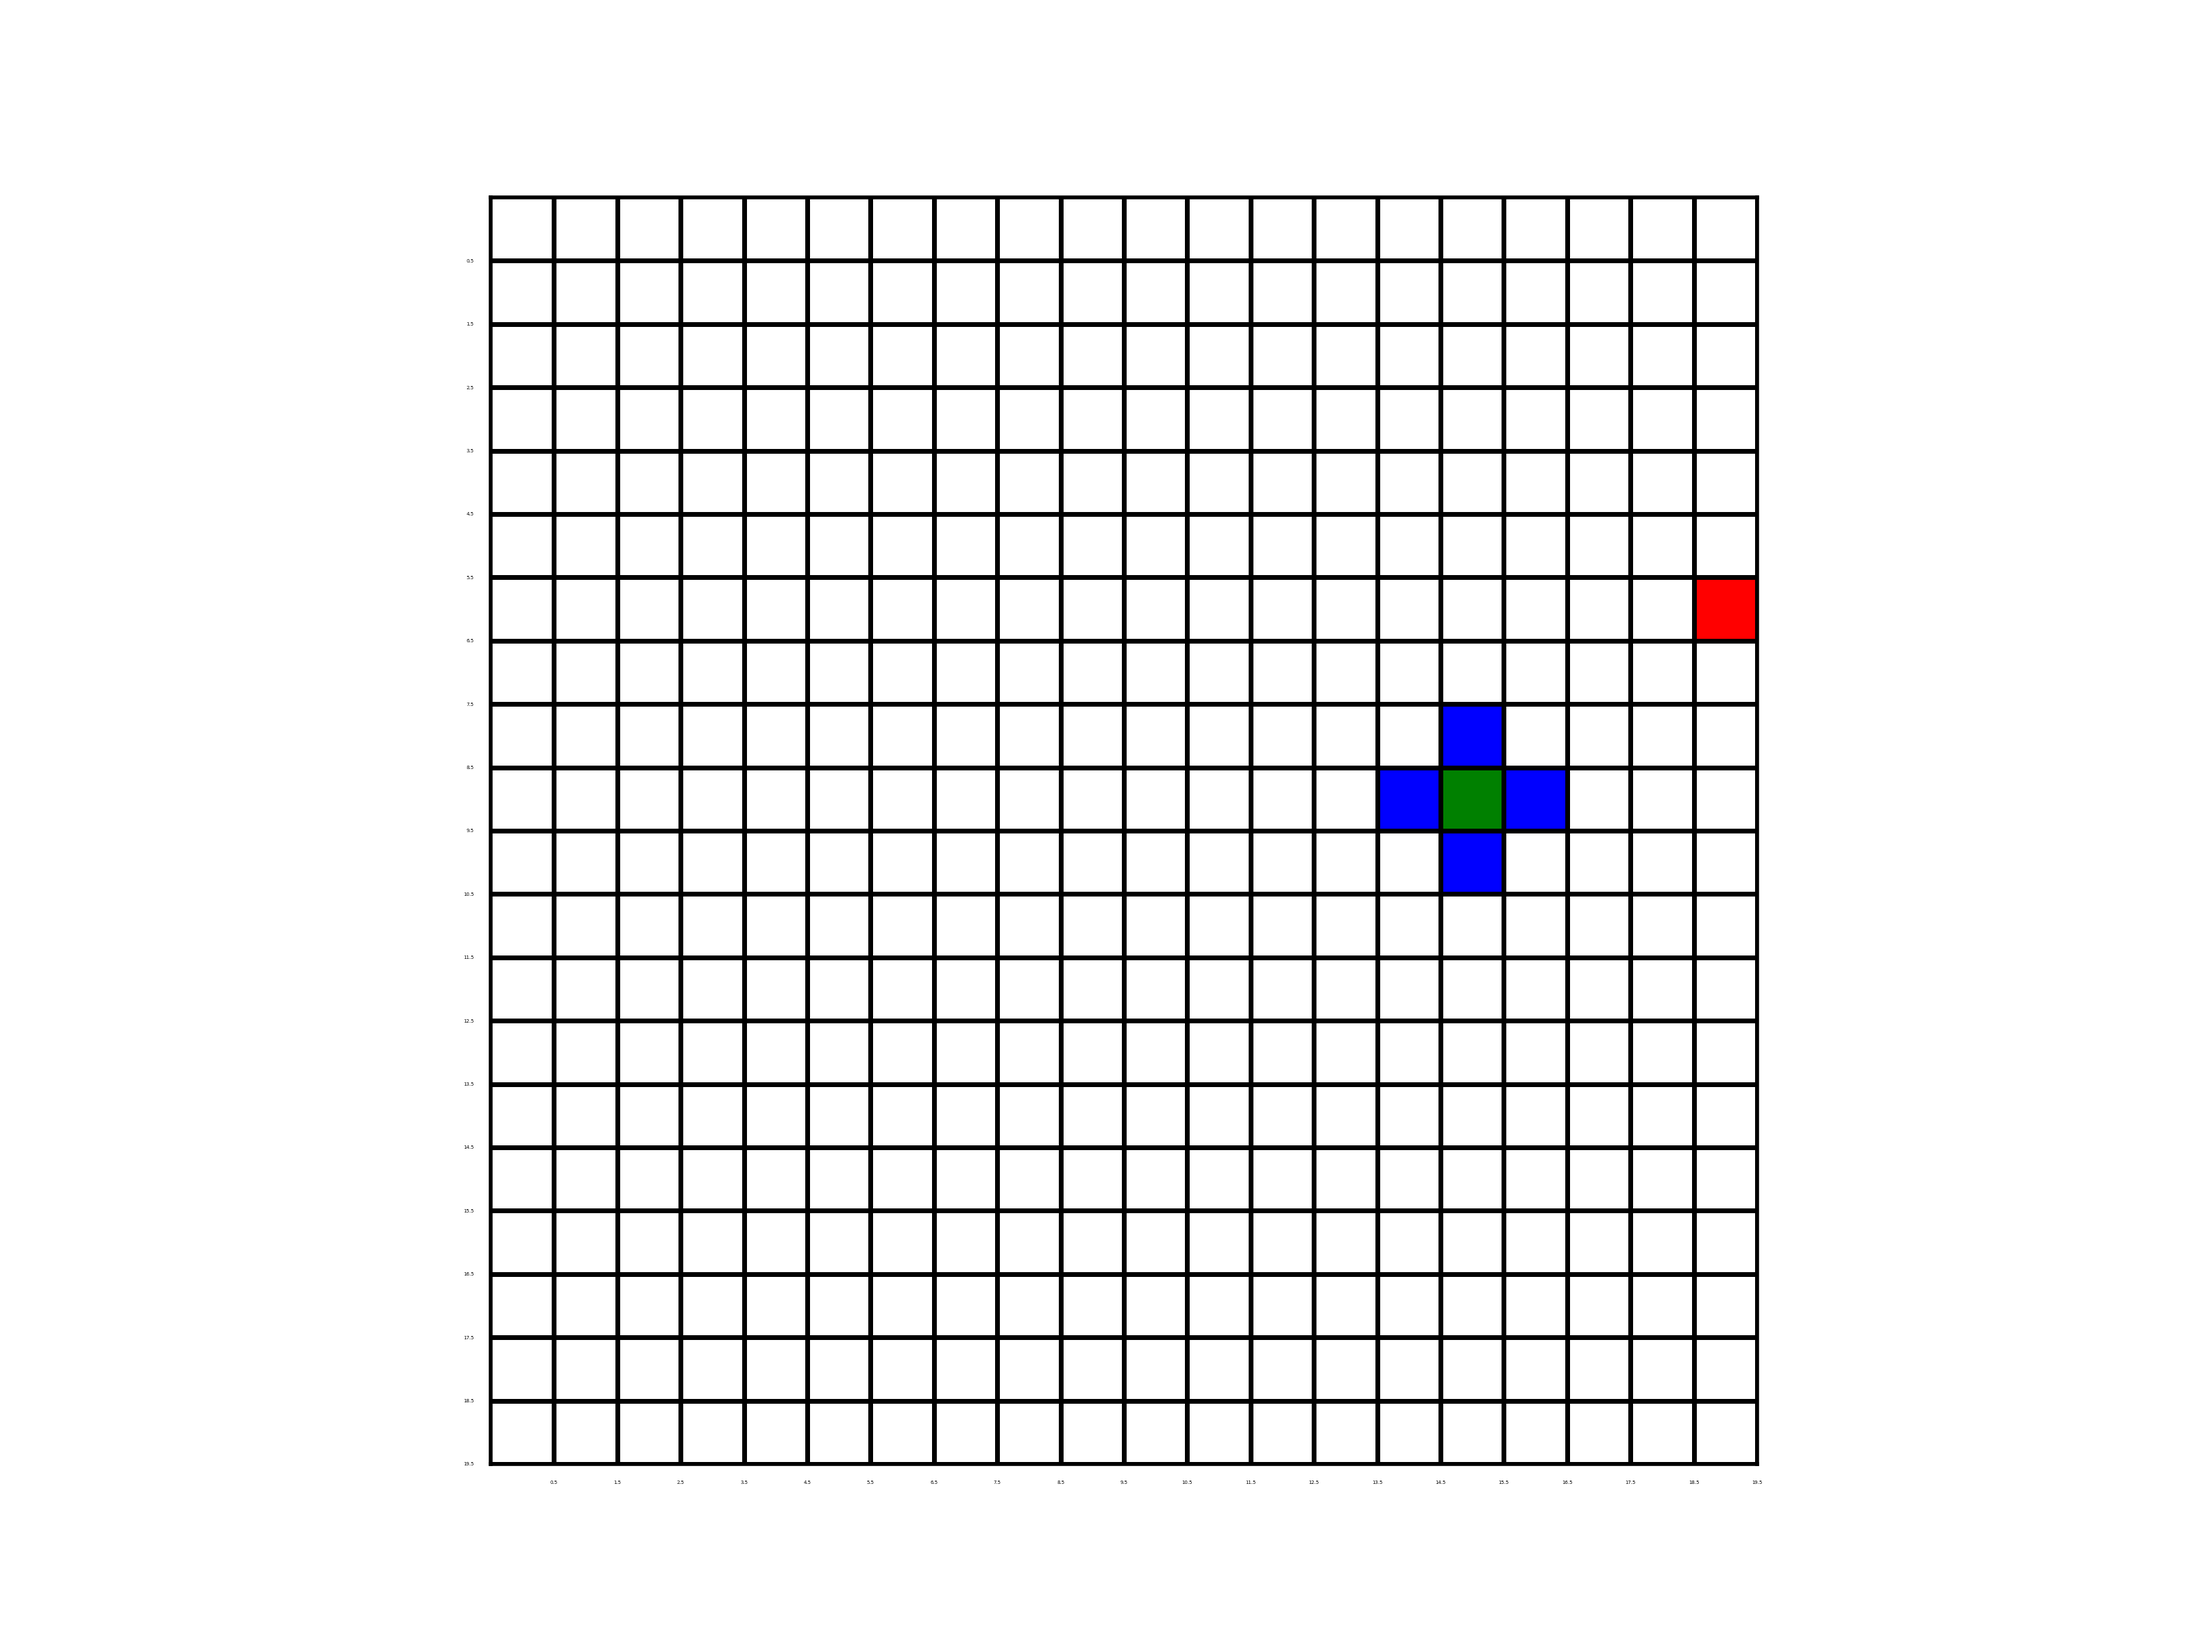
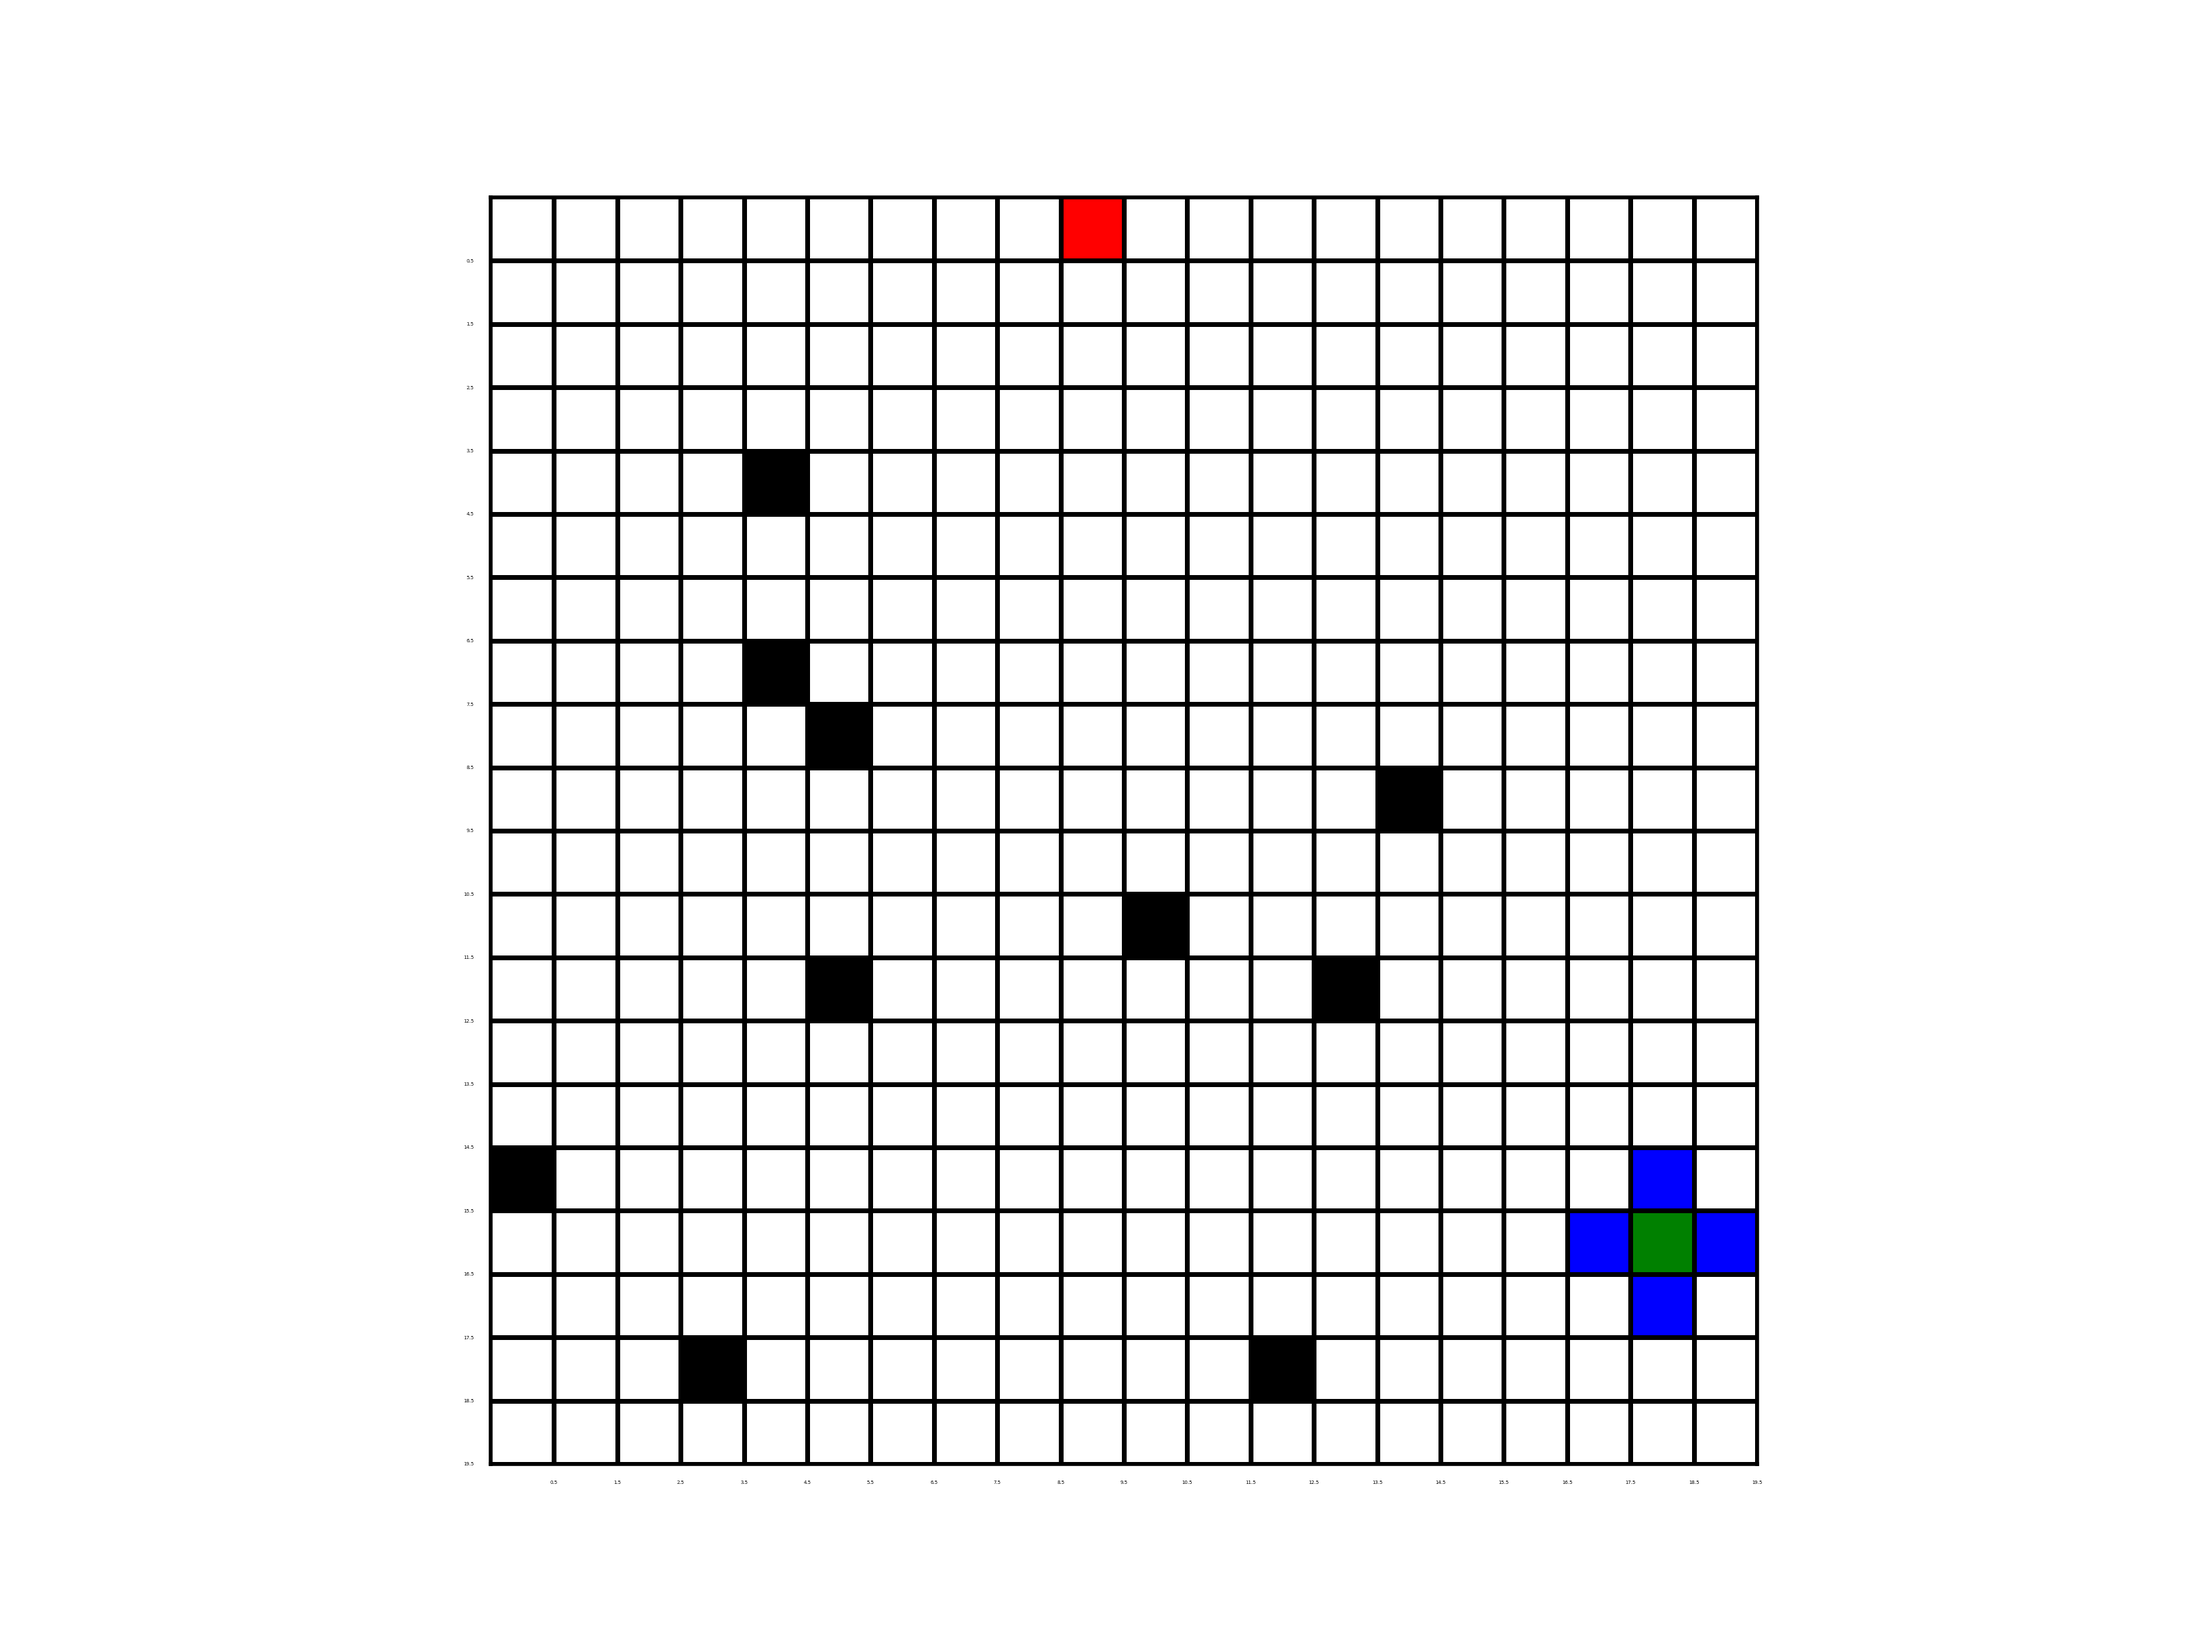
Add obstacle generation

diff --git a/week1/grid_generator.py b/week1/grid_generator.py
@@ -50,8 +50,21 @@ def generate_moves(grid, startX, startY):
             continue
         if row[1] < 0 or row[1] >= num_cols:
             continue
-        grid[row[0], row[1]] = MOVE_CELL
+        if grid[row[0], row[1]] == 0:
+            grid[row[0], row[1]] = MOVE_CELL
     
+def generate_obstacles(grid, numberOfObstacles):
+
+    num_rows = np.size(grid, 0)
+    num_cols = np.size(grid, 1)
+    for i in range(0, numberOfObstacles):
+        x = random.randint(0, num_rows - 1)
+        y = random.randint(0, num_cols - 1)
+        while grid[x, y] != 0:
+            x = random.randint(0, num_rows - 1)
+            y = random.randint(0, num_cols - 1)
+
+        grid[x, y] = OBSTACLE_CELL
 
 if __name__ == "__main__":
     rows = 20
@@ -73,6 +86,6 @@ if __name__ == "__main__":
         goal_y = random.randint(0, cols - 1)
 
         data[goal_x, goal_y] = GOAL_CELL
+        generate_obstacles(data, 10)
         generate_moves(data, start_x, start_y)
-
         plot_grid(data, "week1/images/grid_" + str(i))
